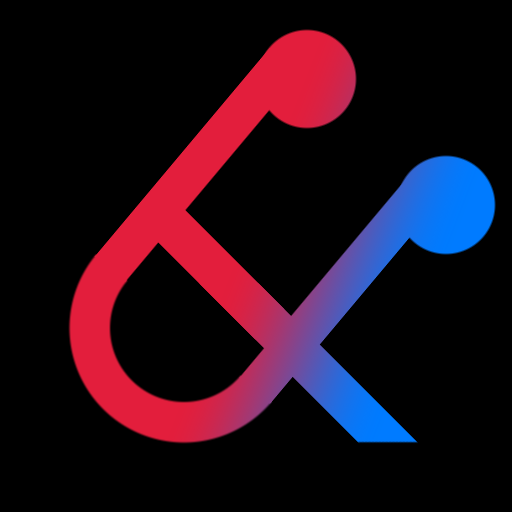
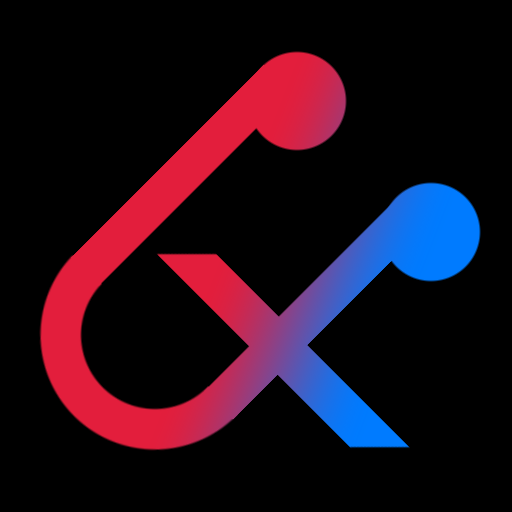
v0.1.8 C
アイコン変更と拡張非表示機能

diff --git a/src/renderer/js/ui/utils.js b/src/renderer/js/ui/utils.js
@@ -37,7 +37,7 @@ export function resolveArtworkPath(artwork, isThumbnail = false) {
  * 要素内のテキストがはみ出しているかをチェックし、アニメーション用の設定を行う
  * @param {HTMLElement} wrapper - .marquee-wrapper 要素
  */
-export function checkTextOverflow(wrapper) { // ▼▼▼ この行に export を追加 ▼▼▼
+export function checkTextOverflow(wrapper) {
     if (!wrapper) return;
 
     const content = wrapper.querySelector('.marquee-content');
@@ -85,6 +85,26 @@ export function formatTime(seconds) {
     const min = Math.floor(seconds / 60);
     const sec = Math.floor(seconds % 60).toString().padStart(2, '0');
     return `${min}:${sec}`;
+}
+
+/**
+ * ファイル拡張子が含まれている可能性のある曲名を整形する
+ * @param {string} title - 曲名
+ * @returns {string} - 拡張子が削除された曲名
+ */
+const supportedExtensions = ['.mp3', '.flac', '.wav', '.ogg', '.m4a', '.mp4'];
+export function formatSongTitle(title) {
+    if (typeof title !== 'string') return 'Unknown Title';
+    const lastDotIndex = title.lastIndexOf('.');
+    // ドットがないか、先頭にある場合はファイル名ではないと判断
+    if (lastDotIndex <= 0) {
+        return title;
+    }
+    const extension = title.substring(lastDotIndex).toLowerCase();
+    if (supportedExtensions.includes(extension)) {
+        return title.substring(0, lastDotIndex);
+    }
+    return title;
 }
 
 

diff --git a/src/renderer/js/ui/element-factory.js b/src/renderer/js/ui/element-factory.js
@@ -1,6 +1,6 @@
 // uxmusic/src/renderer/js/ui/element-factory.js
 
-import { formatTime, checkTextOverflow, resolveArtworkPath } from './utils.js';
+import { formatTime, checkTextOverflow, resolveArtworkPath, formatSongTitle } from './utils.js';
 import { state } from '../state.js';
 import { createPlaylistArtwork } from './playlist-artwork.js';
 const path = require('path');
@@ -26,7 +26,7 @@ export function createSongItem(song, index, ipcRenderer) {
             <img src="./assets/default_artwork.png" class="artwork-small lazy-load" alt="artwork">
             <div class="marquee-wrapper">
                 <div class="marquee-content">
-                    <span>${song.title}</span>
+                    <span>${formatSongTitle(song.title)}</span>
                 </div>
             </div>
         </div>
@@ -83,7 +83,7 @@ export function createQueueItem(song, isPlaying, ipcRenderer) {
         <div class="queue-item-info">
             <div class="queue-item-title marquee-wrapper">
                 <div class="marquee-content">
-                    <span>${song.title}</span>
+                    <span>${formatSongTitle(song.title)}</span>
                 </div>
             </div>
             <div class="queue-item-artist marquee-wrapper">

diff --git a/src/renderer/js/ui/now-playing.js b/src/renderer/js/ui/now-playing.js
@@ -1,6 +1,6 @@
 import { state, elements } from '../state.js';
 import { setEqualizerColorFromArtwork } from '../player.js';
-import { resolveArtworkPath } from './utils.js';
+import { resolveArtworkPath, formatSongTitle } from './utils.js';
 const { ipcRenderer } = require('electron');
 
 function getYoutubeVideoId(url) {
@@ -84,7 +84,7 @@ export function updateNowPlayingView(song) {
 
     const titleSpan = nowPlayingTitle.querySelector('.marquee-content span');
     if (titleSpan) {
-        titleSpan.textContent = song ? song.title : '曲を選択してください';
+        titleSpan.textContent = song ? formatSongTitle(song.title) : '曲を選択してください';
     }
 
     const artistSpan = nowPlayingArtist.querySelector('.marquee-content span');
